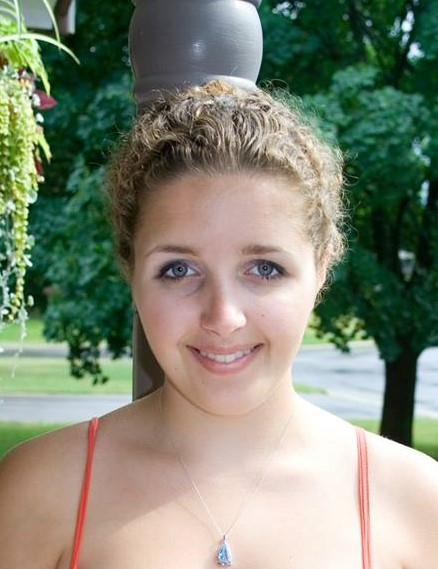
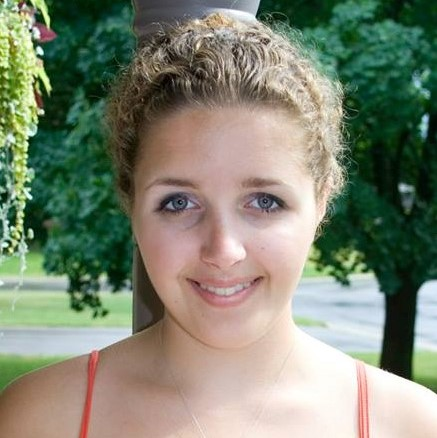
Skills

diff --git a/index.html b/index.html
@@ -87,7 +87,7 @@
 
          <div class="three columns">
 
-            <img class="profile-pic"  src="images/profilepic.jpg" alt="" />
+            <img class="profile-pic"  src="images/nicole2.jpg" alt="" />
 
          </div>
 
@@ -147,10 +147,24 @@
                <div class="twelve columns">
 
                   <h3>Sheridan College</h3>
-                  <p class="info">Honours Bachelor of Computer Science (Mobile Computing) <span>&bull;</span> <em class="date">December 2019</em></p>
+                  <p class="info">Honours Bachelor of Computer Science (Mobile Computing) <span>&bull;</span> <em class="date">3.54 GPA</em>
+                    <span>&bull;</span> <em class="date">December 2019</em>
+                  </p>
 
                   <p>
-                  List courses
+                  The 8 semesters of this program consist of core Computer Science courses, a Mobile Applications stream and a Wireless Network stream. I was taught with a good balance of practical and thoretical courses, making me well-rounded and ready to start my career path.
+                  </p>
+
+                  <p>
+                  Examples of learned concepts:
+                  <ul>
+                    <li>Cognitive computing</li>
+                    <li>Aritificial Intelligence</li>
+                    <li>Quality Assurance and Software Testing</li>
+                    <li>Human Computer Interaction</li>
+                    <li>Enterprise Software Systems</li>
+                    <li>IP Engineering</li>
+                  </ul>
                   </p>
 
                </div>
@@ -232,21 +246,18 @@
 
          <div class="nine columns main-col">
 
-            <p>Sed ut perspiciatis unde omnis iste natus error sit voluptatem accusantium doloremque laudantium, totam rem aperiam,
-            eaque ipsa quae ab illo inventore veritatis et quasi architecto beatae vitae dicta sunt explicabo. Nemo enim ipsam
-            voluptatem quia voluptas sit aspernatur aut odit aut fugit, sed quia consequuntur magni dolores eos qui ratione
-            voluptatem sequi nesciunt.
+            <p>The skills below have been developed through an array of hands-on school applications, previous work experience or personal projects.
             </p>
 
 				<div class="bars">
 
 				   <ul class="skills">
-					   <li><span class="bar-expand photoshop"></span><em>Photoshop</em></li>
-                  <li><span class="bar-expand illustrator"></span><em>Illustrator</em></li>
-						<li><span class="bar-expand wordpress"></span><em>Wordpress</em></li>
-						<li><span class="bar-expand css"></span><em>CSS</em></li>
-						<li><span class="bar-expand html5"></span><em>HTML5</em></li>
-                  <li><span class="bar-expand jquery"></span><em>jQuery</em></li>
+					   <li><span class="bar-expand angular"></span><em>Angular, TypeScript</em></li>
+             <li><span class="bar-expand android"></span><em>Java/Android</em></li>
+             <li><span class="bar-expand csharp"></span><em>C#</em></li>
+             <li><span class="bar-expand htmlCss"></span><em>HTML5, CSS</em></li>
+             <li><span class="bar-expand javascript"></span><em>JavaScript</em></li>
+             <li><span class="bar-expand iOSSwift"></span><em>iOS, Swift</em></li>
 					</ul>
 
 				</div><!-- end skill-bars -->

diff --git a/css/layout.css b/css/layout.css
@@ -30,7 +30,7 @@ body { background: #0f0f0f; }
 
 header {
    position: relative;
-   height: 800px;
+   height: 1000px;
    min-height: 500px;
    width: 100%;
    background: #161415 url(../images/rope.jpg) no-repeat top center;
@@ -325,32 +325,32 @@ ul#nav li.current a { color: #F06000; }
    border-radius: 3px 0 0 3px;
 }
 
-.photoshop {
-  	width: 60%;
+.angular {
+  	width: 80%;
   	-moz-animation: photoshop 2s ease;
   	-webkit-animation: photoshop 2s ease;
 }
-.illustrator {
-  	width: 55%;
+.android {
+  	width: 50%;
   	-moz-animation: illustrator 2s ease;
   	-webkit-animation: illustrator 2s ease;
 }
-.wordpress {
-  	width: 50%;
+.csharp {
+  	width: 60%;
   	-moz-animation: wordpress 2s ease;
   	-webkit-animation: wordpress 2s ease;
 }
-.css {
-  	width: 90%;
+.htmlCss {
+  	width: 75%;
   	-moz-animation: css 2s ease;
   	-webkit-animation: css 2s ease;
 }
-.html5 {
-  	width: 80%;
+.javascript {
+  	width: 75%;
   	-moz-animation: html5 2s ease;
   	-webkit-animation: html5 2s ease;
 }
-.jquery {
+.iOSSwift {
   	width: 50%;
   	-moz-animation: jquery 2s ease;
   	-webkit-animation: jquery 2s ease;
